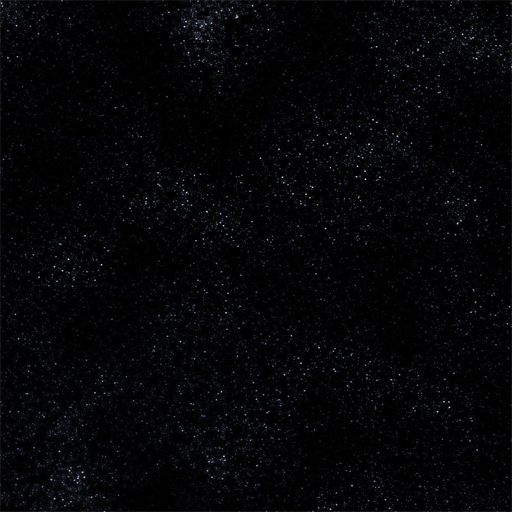
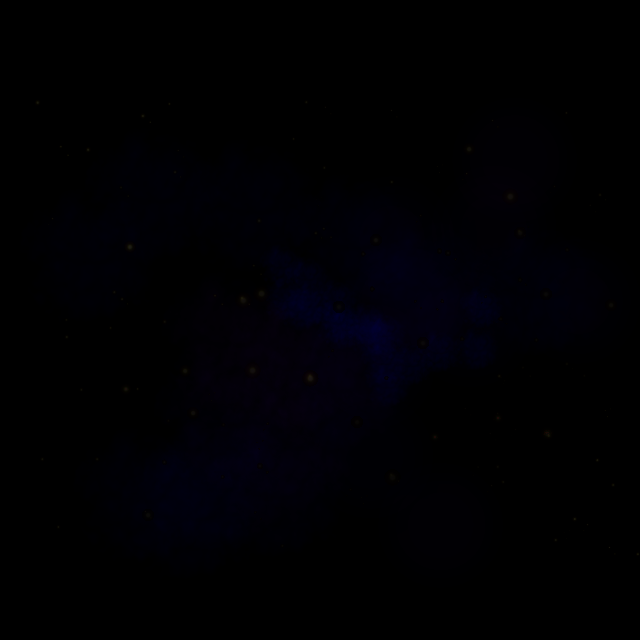
Achieved trig through brute force

diff --git a/mauris.js b/mauris.js
@@ -17,6 +17,26 @@ dragPart.prototype.update = function(){
 	this.actor.y -= this.actor.y % 16;
 };
 
+shipPart = function(x,y,sheet,index,player)
+{
+	this.offsetx = x;
+	this.offsety = y;
+	this.game = game;
+	this.player = player;
+	this.alive = true;
+	this.actor = game.add.sprite(x,y,sheet,index);
+	this.actor.anchor.setTo(0.5,0.5);
+//	this.actor.bringToTop();
+};
+shipPart.prototype.update = function(){
+this.actor.angle = this.player.angle;
+this.actor.x = this.player.x + (this.offsetx * Math.cos(game.math.degToRad(this.player.angle)));
+this.actor.y = this.player.y + (this.offsety * Math.cos(game.math.degToRad(this.player.angle)));
+this.actor.x -= (this.offsety * Math.sin(game.math.degToRad(this.player.angle)));
+this.actor.y += (this.offsetx * Math.sin(game.math.degToRad(this.player.angle)));
+//this.actor.x = this.player.x + (this.offsety * (1-Math.sin(game.math.degToRad(this.player.angle))));
+};
+
 EnemyTank = function (index, game, player, bullets) {
 
 	var x = game.world.randomX;
@@ -30,11 +50,11 @@ EnemyTank = function (index, game, player, bullets) {
 	this.nextFire = 0;
 	this.alive = true;
 
-	this.shadow = game.add.sprite(x, y, 'enemy', 'shadow');
+	//this.shadow = game.add.sprite(x, y, 'enemy', 'shadow');
 	this.actor = game.add.sprite(x, y, 'enemy', 'tank1');
 	this.turret = game.add.sprite(x, y, 'enemy', 'turret');
 
-	this.shadow.anchor.setTo(0.5, 0.5);
+	//this.shadow.anchor.setTo(0.5, 0.5);
 	this.actor.anchor.setTo(0.5, 0.5);
 	this.turret.anchor.setTo(0.3, 0.5);
 
@@ -105,12 +125,14 @@ function preload () {
 	game.load.image('bullet', 'assets/bullet.png');
 	game.load.image('draconis', 'assets/draconis.png');
 	game.load.image('turret', 'assets/turret.png');
-	game.load.image('starfield', 'assets/starfield.png');
+	game.load.image('starfield2', 'assets/starfield2.png');
+	game.load.image('starfield3', 'assets/starfield3.png');
+	game.load.image('starfield4', 'assets/starfield4.png');
 	game.load.spritesheet('kaboom', 'assets/explosion.png', 64, 64, 23);
 	game.load.spritesheet('thrust', 'assets/thrust.png',4,4,4);
 }
 
-var land;
+var backdrop1, backdrop2;
 var filter;
 var shadow;
 var actor;
@@ -132,13 +154,10 @@ var nextFire = 0;
 var partShip;
 var parts=[];
 
-function create () {
+var defaultShipParts=[14,1,2,6,7,8,13,12,26];
 
-	game.world.setBounds(-1000, -1000, 3000, 3000);
+function createParts() {
 
-	land = game.add.tileSprite(0, 0, 1280, 720, 'starfield');
-
-	land.fixedToCamera = true;
 	var n=0;
 	for(var iy=0;iy<5;iy++){
 		for(var ix=0;ix<6;ix++){
@@ -150,8 +169,51 @@ function create () {
 		}
 	}
 
+}
+// assumes that the incoming parts list is a square
+// if not there will be anarchy
+function createShip(shipParts, player){
+	var myParts = [];
+
+	var n=0;
+	while (n*n<shipParts.length){n++};
+
+	if (n*n>shipParts.length){
+		return [];
+	};
+	for (var i=0; i<shipParts.length;i++){
+		myParts.push(new shipPart(((n-1)*-8)+((i%n)*16),((n-1)*-8)+(Math.floor(i/n)*16),'parts',shipParts[i],player));
+	}
+	return myParts; 
+}
+
+
+function create () {
+
+	game.world.setBounds(-1000, -1000, 3000, 3000);
+
+	backdrop1 = game.add.tileSprite(0, 0, 1280, 720, 'starfield2');
+
+	backdrop1.fixedToCamera = true;
+	backdrop1.scale.x=2;
+	backdrop1.scale.y=2;	
+	
+	
+	backdrop2 = game.add.tileSprite(0, 0, 1280, 720, 'starfield3');
+	backdrop2.fixedToCamera = true;
+	backdrop2.scale.x=2;
+	backdrop2.scale.y=2;	
+
+	backdrop3 = game.add.tileSprite(0, 0, 1280, 720, 'starfield4');
+	backdrop3.fixedToCamera = true;
+	backdrop3.scale.x=2;
+	backdrop3.scale.y=2;	
+	//createParts();	
 	//  The base of our actor
-	actor = game.add.sprite(-30, -30, 'draconis');
+	actor = game.add.sprite(0, 0, 'parts');
+	actor.visible=false;
+	actor.height=48; //TODO unhardcode
+	actor.width=48;
 	actor.anchor.setTo(0.5, 0.5);
 	//	actor.animations.add('move', ['tank1', 'tank2', 'tank3', 'tank4', 'tank5', 'tank6'], 20, true);
 
@@ -169,6 +231,7 @@ function create () {
 	actor.body.collideWorldBounds = true; 
 
 	//  Finally the turret that we place on-top of the actor body
+	parts = createShip(defaultShipParts, actor);
 	//TODO some condition where the turret comes back?
 	//turret = game.add.sprite(0, 0, 'turret');
 	//turret.anchor.setTo(0.3, 0.5);
@@ -190,8 +253,8 @@ function create () {
 	}
 
 	//  A shadow below our actor
-	shadow = game.add.sprite(0, 0, 'tank', 'shadow');
-	shadow.anchor.setTo(0.5, 0.5);
+	//shadow = game.add.sprite(0, 0, 'tank', 'shadow');
+	//shadow.anchor.setTo(0.5, 0.5);
 
 	thrust = game.add.emitter(0,0,200);
 	thrust.makeParticles('thrust');
@@ -218,7 +281,7 @@ function create () {
 		explosionAnimation.animations.add('kaboom');
 	}
 
-	actor.bringToTop();
+	//actor.bringToTop();
 	//TODO restore a turret one day - turret.bringToTop();
 
 	/*logo = game.add.sprite(0, 200, 'logo');
@@ -244,7 +307,7 @@ function removeLogo () {
 
 function update () {
 
-
+	game.debug.renderText(Math.sin(game.math.degToRad(actor.angle)) + ';' + Math.cos(game.math.degToRad(actor.angle)),100,100);
 	game.physics.collide(enemyBullets, actor, bulletHitPlayer, null, this);
 
 	actor.body.angularAcceleration = 0;
@@ -296,13 +359,17 @@ function update () {
 		currentSpeed=0;
 	}
 	// scrolling
-	land.tilePosition.x = -game.camera.x;
-	land.tilePosition.y = -game.camera.y;
+	backdrop1.tilePosition.x = -0.25*game.camera.x;
+	backdrop1.tilePosition.y = -0.25*game.camera.y;
+	backdrop2.tilePosition.x = -0.40*game.camera.x;
+	backdrop2.tilePosition.y = -0.40*game.camera.y;
+	backdrop3.tilePosition.x = -0.6*game.camera.x;
+	backdrop3.tilePosition.y = -0.6*game.camera.y;
 
 	//  Position all the parts and align rotations
-	shadow.x = actor.x;
-	shadow.y = actor.y;
-	shadow.rotation = actor.rotation;
+	//shadow.x = actor.x;
+	//shadow.y = actor.y;
+	//shadow.rotation = actor.rotation;
 
 	//TODO restore the turret one day
 	//turret.x = actor.x;
